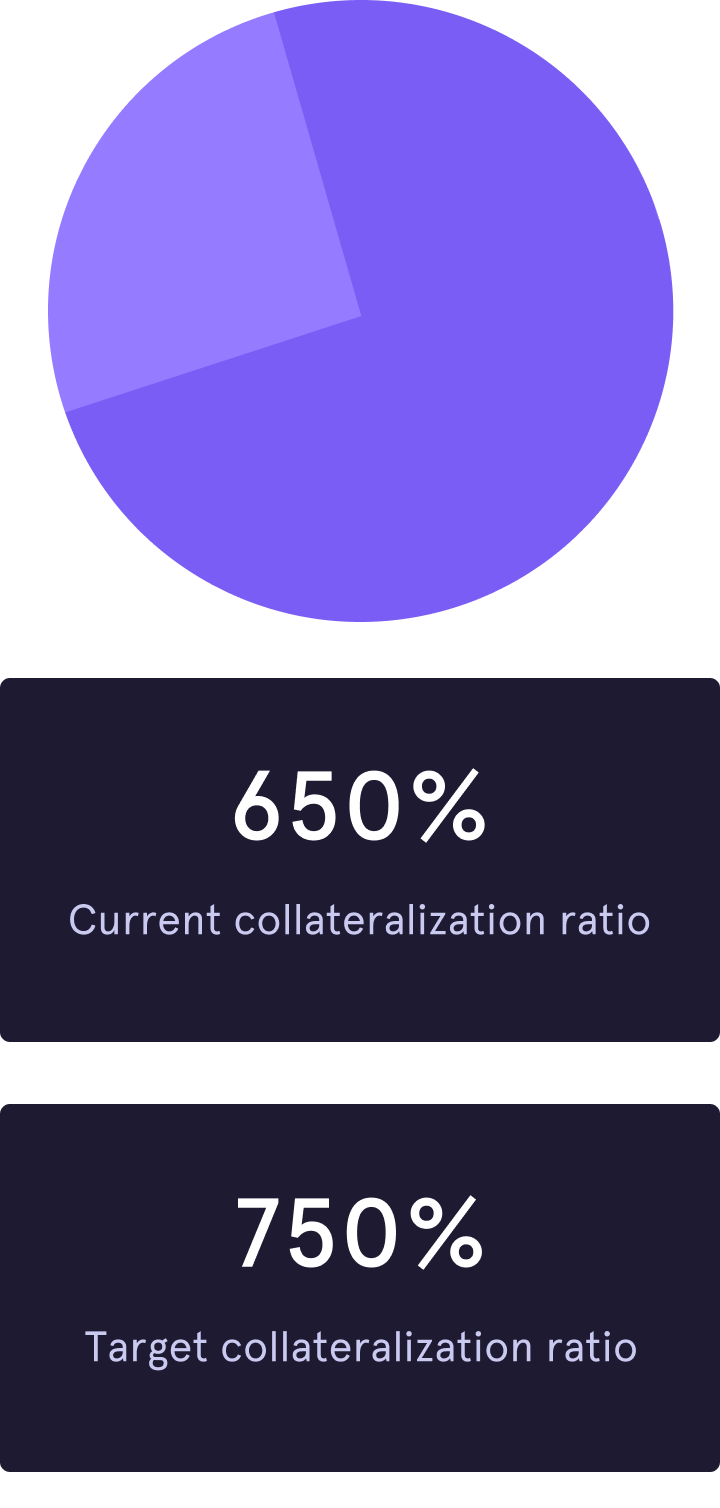
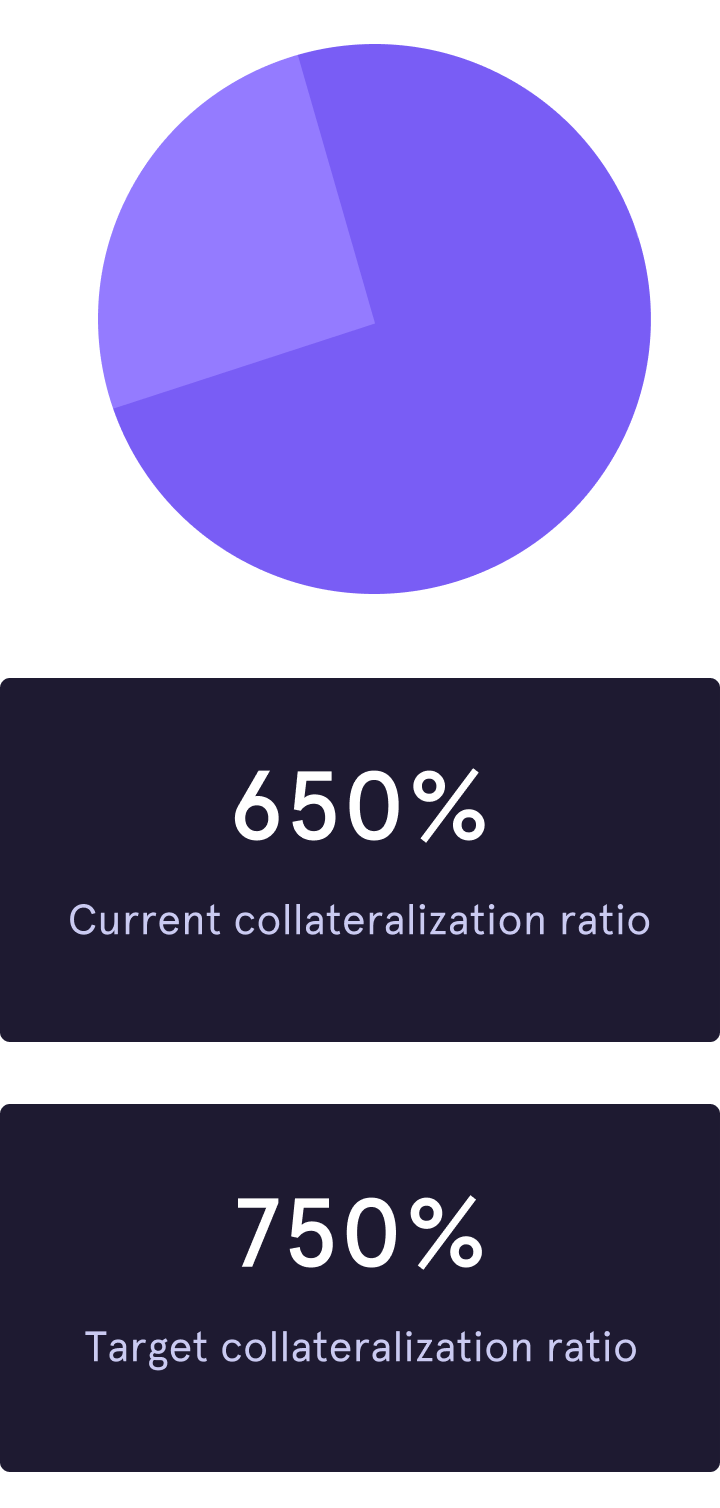
Mintr mobile responsiveness including images

Changed region(s): [[0.0611, 0.0, 0.9472, 0.4363], [0.275, 0.1247, 0.5194, 0.2493]]

diff --git a/src/pages/products/mintr.sass b/src/pages/products/mintr.sass
@@ -216,14 +216,22 @@
 
   @media (max-width: 600px)
 
-    .mintr-about
+    .header-section
+      background: url(../../resources/mintr-hero-mobile.png) no-repeat
+      background-size: contain
+      background-position: center center
+      width: 90%
+      height: 300px
+      margin: 24px auto 0 auto
+
+    .section.mintr-about
       margin: auto
 
-    .mintr-columns
-      margin: 0 auto 100px auto
+      .mintr-columns
+        margin: auto
 
-    .product-desc
-      width: 80vw
+      .product-desc
+        width: 80vw
 
     .section.collat-ratio
       .image-mobile

diff --git a/src/pages/products/mintr.js b/src/pages/products/mintr.js
@@ -7,7 +7,7 @@ import mintrLogo from "../../resources/products/mintr.svg";
 import mintrButton from "../../resources/products/mintr-button.svg";
 import joinDiscordButton from "../../resources/products/join-discord.svg";
 import collatRatio from "../../resources/collat-ratio.svg";
-import collatRatioMobile from "../../resources/collat-ratio-mobile.png";
+import collatRatioMobile from "../../resources/collat-ratio-mobile.svg";
 import stepOne from "../../resources/1.svg";
 import stepTwo from "../../resources/2.svg";
 import stepThree from "../../resources/3.svg";
